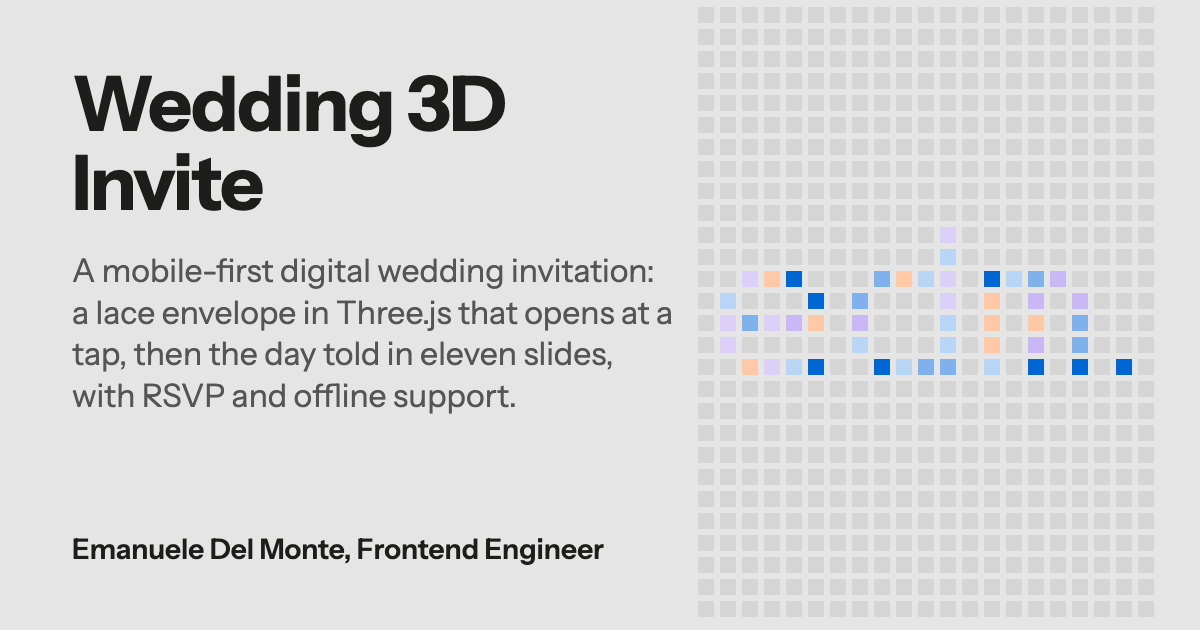
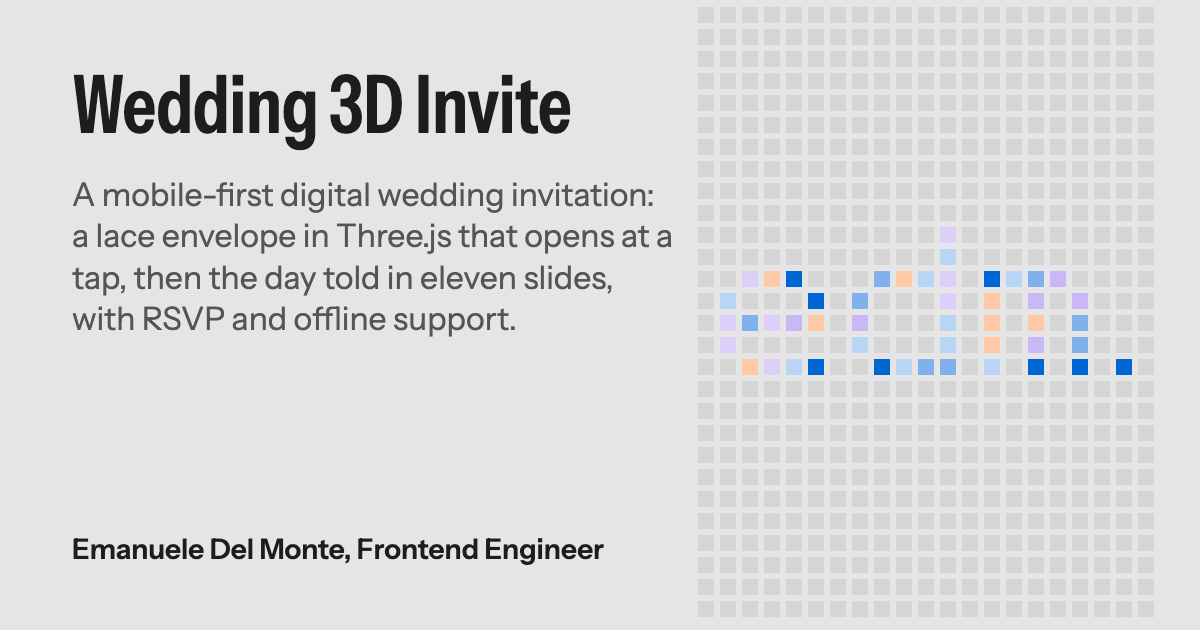
fix: OG images, the intro name and strong follow the type system (#307)
The OG images load the file with the wdth axis and set titles at 600, wdth 75,
like the hero, so the name fits one line. The intro sets the name in the hero's
type. strong uses weight 600 instead of the browser's 700.

Changed region(s): [[0.0617, 0.2413, 0.555, 0.6635], [0.0617, 0.1206, 0.4933, 0.2413]]

diff --git a/e2e/typography.spec.ts b/e2e/typography.spec.ts
@@ -1,0 +1,17 @@
+import { expect, test } from './fixtures';
+
+// Hierarchy comes from size and the wdth axis at weight 600, no extra weights (DESIGN.md, issue #307).
+test('the intro sets the name in the same type as the hero', async ({ page }) => {
+  await page.goto('/en/');
+  const type = (selector: string) =>
+    page.locator(selector).evaluate((el) => {
+      const { fontSize, fontWeight, fontVariationSettings, letterSpacing } = getComputedStyle(el);
+      return { fontSize, fontWeight, fontVariationSettings, letterSpacing };
+    });
+  expect(await type('.site-intro .name')).toEqual(await type('h1'));
+});
+
+test('strong text uses the emphasis weight of the system', async ({ page }) => {
+  await page.goto('/en/blog/server-side-tables');
+  await expect(page.locator('main strong').first()).toHaveCSS('font-weight', '600');
+});

diff --git a/src/app/layout/site-intro.ts b/src/app/layout/site-intro.ts
@@ -41,10 +41,12 @@ import { MotionHost } from '../motion/motion-host';
     }
     .name {
       margin: 0;
-      font-size: clamp(2.5rem, 1rem + 6vw, 6rem);
-      font-weight: 700;
-      line-height: 1;
-      letter-spacing: -0.03em;
+      // the same type as the hero's h1, which shows this name right after
+      font-size: var(--step-hero);
+      font-weight: 600;
+      font-variation-settings: 'wdth' 75;
+      line-height: 1.02;
+      letter-spacing: -0.01em;
       text-align: center;
     }
     .letter {

diff --git a/src/styles/_base.scss b/src/styles/_base.scss
@@ -67,6 +67,11 @@ p {
   text-wrap: pretty;
 }
 
+/* the system's one emphasis weight, not the browser's 700 */
+strong {
+  font-weight: 600;
+}
+
 a {
   color: var(--link);
   text-underline-offset: 0.2em;
